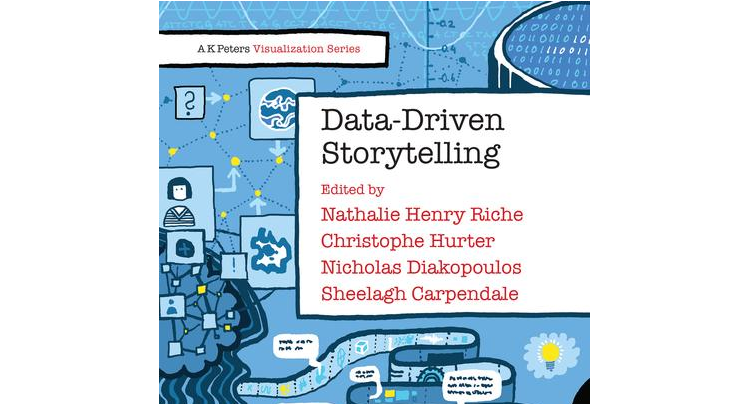
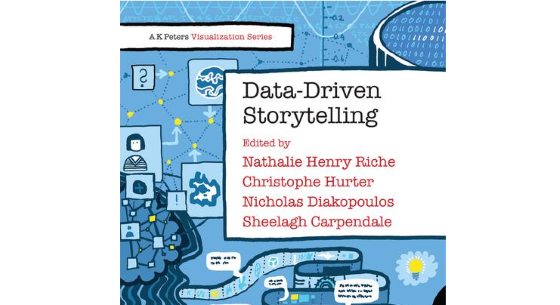
smaller splash images

diff --git a/index.html b/index.html
@@ -29,9 +29,9 @@
 		<script>
 
 			imagesArray = [
-				"images/charticulator.gif",
-				"images/timeline_storyteller.gif",
-				"images/ranges.gif",
+				"images/charticulator.png",
+				"images/timeline_storyteller.png",
+				"images/rangesonmobile.png",
 				"images/vip.png",
 				"images/dds.png",
 				"images/mobilevis.png"
@@ -134,9 +134,9 @@
 					<div class="pub">
 						<p>
 							<strong>Oct. 2018</strong>: I will present <a href="https://www.microsoft.com/en-us/research/publication/visualizing-ranges-over-time-on-mobile-phones-a-task-based-crowdsourced-evaluation/" target="_blank"><strong><em>Visualizing Ranges over Time on Mobile Phones</em></strong></a> in the InfoVis track at <a href="http://ieeevis.org/year/2018/info/papers">IEEE VIS 2018</a>. <i class="fa fa-long-arrow-right" aria-hidden="true"></i> <a href="https://www.microsoft.com/en-us/research/uploads/prod/2018/07/InfoVis1069-Aug1-opt.pdf" target="_blank"><i class="fa fa-file-pdf-o" aria-hidden="true"></i> <span class="moreinfo">journal paper</span></a>
-							<br><br><a href="https://www.microsoft.com/en-us/research/publication/visualizing-ranges-over-time-on-mobile-phones-a-task-based-crowdsourced-evaluation/" target="_blank"><img src="images/ranges.gif" width="560"></a><br><br>
+							<br><br><a href="https://www.microsoft.com/en-us/research/publication/visualizing-ranges-over-time-on-mobile-phones-a-task-based-crowdsourced-evaluation/" target="_blank"><img src="images/rangesonmobile.png" width="560" style="box-shadow: none;"></a><br><br>
 							<strong>Oct. 2018</strong>: <a href="https://charticulator.com/"><strong><em>Charticulator: Interactive Construction of Bespoke Chart Layouts</em></strong></a> by <a href="https://donghaoren.org/" target="_blank">Donghao Ren</a>, <a href="https://www.microsoft.com/en-us/research/people/bongshin/" target="_blank">Bongshin Lee</a>, and myself will appear in the InfoVis track at <a href="http://ieeevis.org/year/2018/info/papers">IEEE VIS 2018</a>, where it will receive a <strong>Best Paper Honorable Mention Award</strong>. <a href="https://charticulator.com/">Charticulator</a> is an <a href="https://github.com/microsoft/charticulator" target="_blank">open-source</a> interactive chart creation tool that you can use in your browser. <i class="fa fa-long-arrow-right" aria-hidden="true"></i> <a href="https://www.microsoft.com/en-us/research/uploads/prod/2018/08/Charticulator-InfoVis2018.pdf" target="_blank"> <i class="fa fa-file-pdf-o" aria-hidden="true"></i> <span class="moreinfo">journal paper</span></a> | <a href="https://charticulator.com/" target="_blank"><i class="fa fa-external-link" aria-hidden="true"></i> <span class="moreinfo">charticulator.com</span></a> | <a href="https://github.com/microsoft/charticulator" target="_blank"><i class="fa fa-external-link" aria-hidden="true"></i> <span class="moreinfo">github repository</span></a>
-							<br><br><a href="https://charticulator.com/"><img src="images/charticulator.gif" width="560"></a><br><br>
+							<br><br><a href="https://charticulator.com/"><img src="images/charticulator.png" width="560"></a><br><br>
 							<strong>Oct. 2018</strong>: I am co-organizing the <strong><a href="http://www.visinpractice.rwth-aachen.de/" target="_blank">VisInPractice</a></strong> program at <a href="http://ieeevis.org/">IEEE VIS 2018</a>. I look forward to welcoming visualization practitioners to Berlin in October 2018. Check out our <a href="http://www.visinpractice.rwth-aachen.de" target="_blank">program</a>.
 							<br><a href="http://www.visinpractice.rwth-aachen.de" target="_blank"><img src="images/vip.png" width="560" style="box-shadow: none;"></a><br><br>
 							<!-- <strong>Aug. 2018</strong>: <a href="#pubs"><strong><em>Reflecting on the Evaluation of Visualization Authoring Systems</em></strong></a> by <a href="https://donghaoren.org/" target="_blank">Donghao Ren</a>, Bongshin Lee, Nathalie Henry Riche, and myself will appear in the <a href="https://beliv-workshop.github.io/" target="_blank">BELIV</a> program at <a href="http://ieeevis.org/">IEEE VIS 2018</a>.<br><br> -->
@@ -149,7 +149,7 @@
 						<!-- <strong>Apr. 2018</strong>: I co-chaired the 2nd <strong><a href="http://itolab.is.ocha.ac.jp/pvis2018/program.html#PacificVis">Visual Data Storytelling Contest</a></strong> at <a href="http://itolab.is.ocha.ac.jp/pvis2018/#" target="_blank">IEEE PacificVis 2018</a>, which took place April 10 - 13 in Kobe, Japan. <br><br> -->
 						<!-- <strong>Feb. 2018</strong>: The <strong><a href="https://timelineconsortium.org/">Timeline Consortium</a></strong> published a <a href="https://timelineconsortium.org/standard" target="_blank">draft timeline standard</a> following our most recent meeting in Cambridge, MA, USA. <br><br> -->
 						<strong>Aug. 2017</strong>: <strong><a href="https://store.office.com/en-us/app.aspx?assetid=WA104381136&ui=en-US&rs=en-US&ad=US&appredirect=false" target="_blank">Timeline Storyteller</a></strong> is <a href="https://powerbi.microsoft.com/en-us/blog/what-story-does-your-timeline-tell-introducing-the-timeline-storyteller-custom-visual-for-microsoft-power-bi/" target="_blank">now available as a <strong>custom visual for Power BI</strong></a>. It was <a href="https://youtu.be/zaVGt-IbuhU?t=28m1s" target="_blank">featured in the opening keynote</a> of the <a href="https://www.microsoft.com/en-us/datainsightssummit/sessions?date=june13" target="_blank">Microsoft Data Insights Summit</a> in June 2017. I also <a href="https://youtu.be/mmdqZXm0n-4?t=39m48s" target="_blank">demonstrated</a> Timeline Storyteller during the BI Power Hour. <i class="fa fa-long-arrow-right" aria-hidden="true"></i>  <a href="https://youtu.be/zaVGt-IbuhU?t=28m1s"><i class="fa fa-youtube-play" aria-hidden="true"></i> <span class="moreinfo">keynote video</span></a> | <a href="https://youtu.be/mmdqZXm0n-4?t=39m48s" target="_blank"> <i class="fa fa-youtube-play" aria-hidden="true"></i> <span class="moreinfo">demo video</span></a> | <a href="https://youtu.be/bwiMfwBVsSQ" target="_blank"> <i class="fa fa-youtube-play" aria-hidden="true"></i> <span class="moreinfo">tutorial video</span></a>
-						<br><br><a href="https://timelinestoryteller.com/" target="_blank"><img src="images/timeline_storyteller.gif" width="560"></a>
+						<br><br><a href="https://timelinestoryteller.com/" target="_blank"><img src="images/timeline_storyteller.png" width="560"></a>
 						</p>
 					</div>
 
